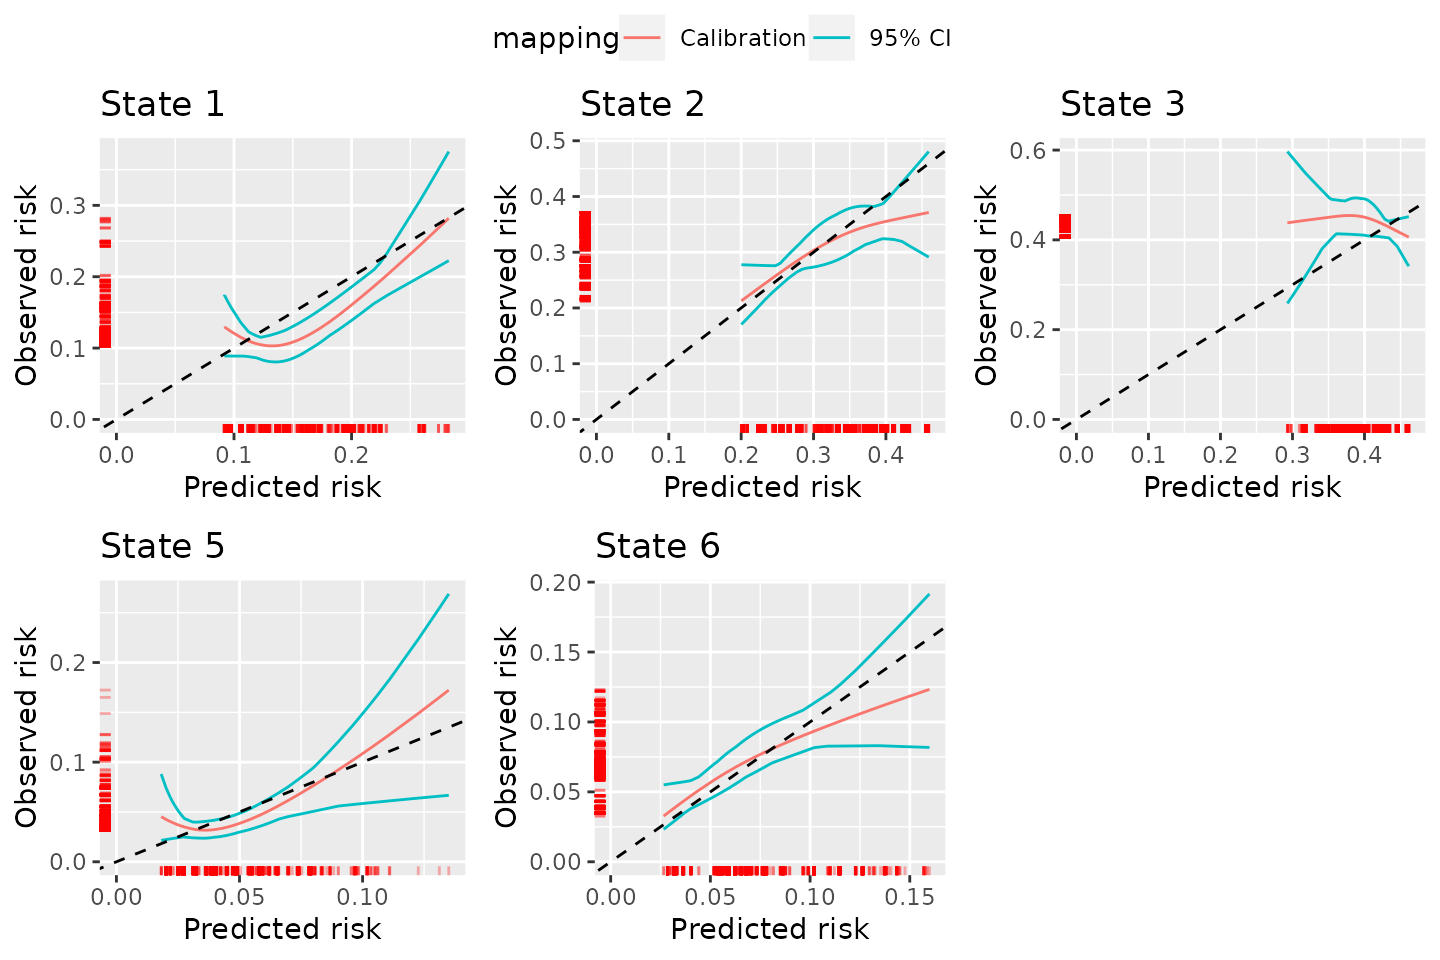
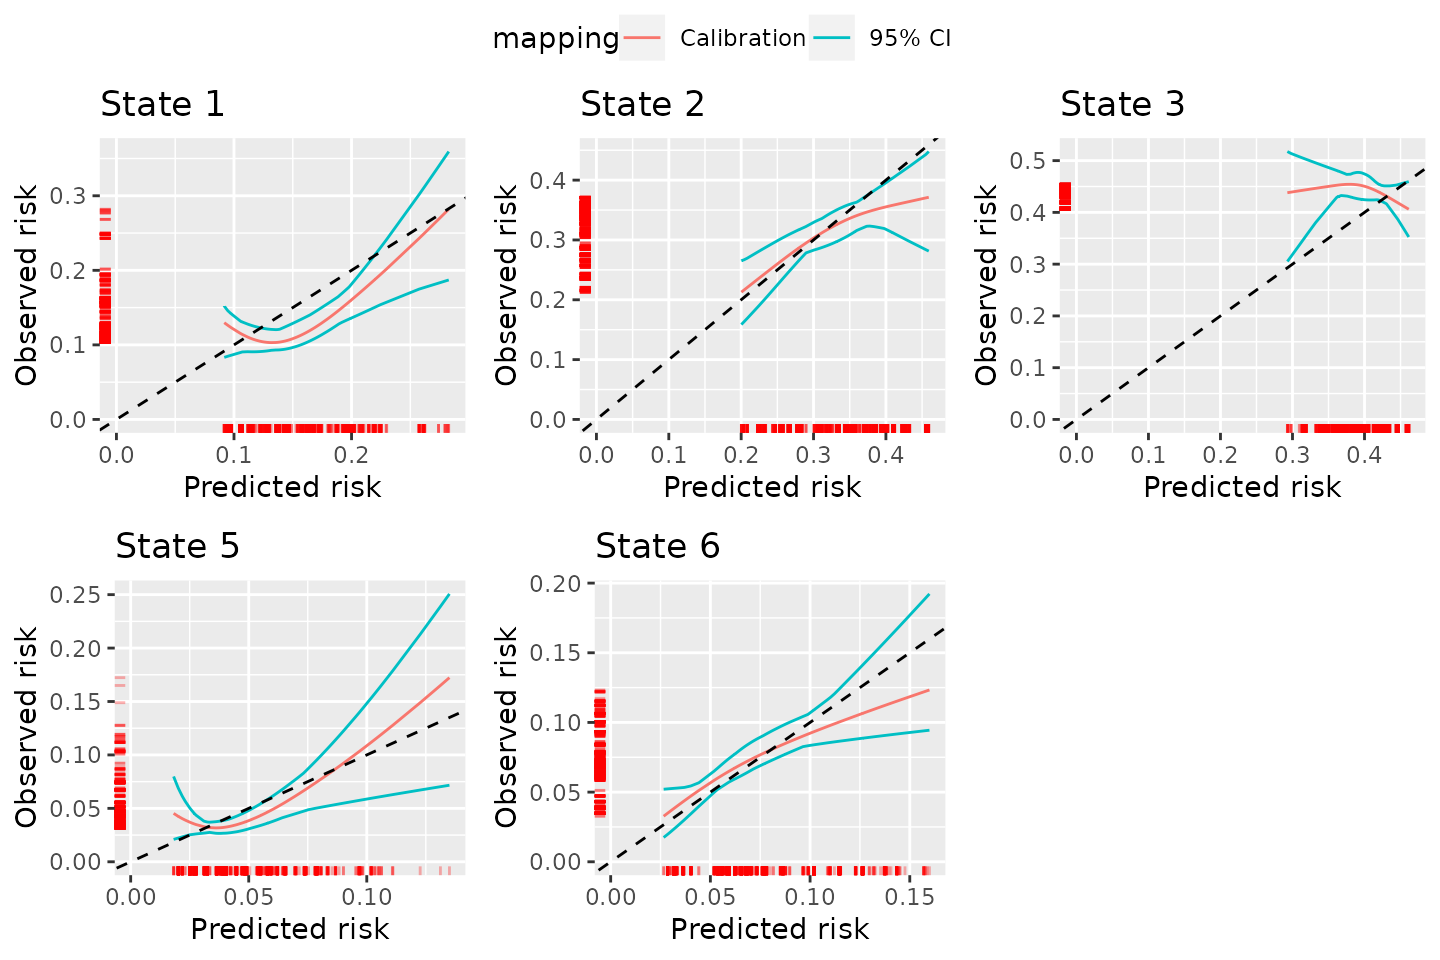
Deploying to gh-pages from @ alexpate30/calibmsm@2191148faf60e0f3015eb7d6d125822961022656 🚀

diff --git a/reference/calc_calib_blr.html b/reference/calc_calib_blr.html
@@ -247,38 +247,38 @@ in the vignette XXXX.</p>
 <span class="r-out co"><span class="r-pr">#&gt;</span>   .. ..$ id       : int [1:1778] 2 4 5 7 10 13 14 16 18 19 ...</span>
 <span class="r-out co"><span class="r-pr">#&gt;</span>   .. ..$ pred     : num [1:1778] 0.114 0.1384 0.1233 0.0974 0.1137 ...</span>
 <span class="r-out co"><span class="r-pr">#&gt;</span>   .. ..$ obs      : num [1:1778] 0.11 0.104 0.105 0.124 0.11 ...</span>
-<span class="r-out co"><span class="r-pr">#&gt;</span>   .. ..$ obs.lower: num [1:1778] 0.0897 0.0807 0.0865 0.0883 0.0897 ...</span>
-<span class="r-out co"><span class="r-pr">#&gt;</span>   .. ..$ obs.upper: num [1:1778] 0.129 0.129 0.124 0.162 0.129 ...</span>
+<span class="r-out co"><span class="r-pr">#&gt;</span>   .. ..$ obs.lower: num [1:1778] 0.0897 0.0826 0.085 0.0879 0.0895 ...</span>
+<span class="r-out co"><span class="r-pr">#&gt;</span>   .. ..$ obs.upper: num [1:1778] 0.135 0.125 0.127 0.166 0.135 ...</span>
 <span class="r-out co"><span class="r-pr">#&gt;</span>   ..$ state2:'data.frame':	1778 obs. of  5 variables:</span>
 <span class="r-out co"><span class="r-pr">#&gt;</span>   .. ..$ id       : int [1:1778] 2 4 5 7 10 13 14 16 18 19 ...</span>
 <span class="r-out co"><span class="r-pr">#&gt;</span>   .. ..$ pred     : num [1:1778] 0.232 0.184 0.161 0.212 0.232 ...</span>
 <span class="r-out co"><span class="r-pr">#&gt;</span>   .. ..$ obs      : num [1:1778] 0.17 0.186 0.176 0.179 0.17 ...</span>
-<span class="r-out co"><span class="r-pr">#&gt;</span>   .. ..$ obs.lower: num [1:1778] 0.126 0.153 0.139 0.151 0.126 ...</span>
-<span class="r-out co"><span class="r-pr">#&gt;</span>   .. ..$ obs.upper: num [1:1778] 0.227 0.226 0.22 0.212 0.227 ...</span>
+<span class="r-out co"><span class="r-pr">#&gt;</span>   .. ..$ obs.lower: num [1:1778] 0.125 0.158 0.142 0.15 0.125 ...</span>
+<span class="r-out co"><span class="r-pr">#&gt;</span>   .. ..$ obs.upper: num [1:1778] 0.228 0.214 0.217 0.212 0.228 ...</span>
 <span class="r-out co"><span class="r-pr">#&gt;</span>   ..$ state3:'data.frame':	1778 obs. of  5 variables:</span>
 <span class="r-out co"><span class="r-pr">#&gt;</span>   .. ..$ id       : int [1:1778] 2 4 5 7 10 13 14 16 18 19 ...</span>
 <span class="r-out co"><span class="r-pr">#&gt;</span>   .. ..$ pred     : num [1:1778] 0.0844 0.0758 0.0551 0.0615 0.0844 ...</span>
 <span class="r-out co"><span class="r-pr">#&gt;</span>   .. ..$ obs      : num [1:1778] 0.1249 0.1167 0.0919 0.1001 0.1248 ...</span>
-<span class="r-out co"><span class="r-pr">#&gt;</span>   .. ..$ obs.lower: num [1:1778] 0.0984 0.0871 0.0486 0.0612 0.0984 ...</span>
-<span class="r-out co"><span class="r-pr">#&gt;</span>   .. ..$ obs.upper: num [1:1778] 0.159 0.148 0.143 0.14 0.159 ...</span>
+<span class="r-out co"><span class="r-pr">#&gt;</span>   .. ..$ obs.lower: num [1:1778] 0.0991 0.0866 0.0376 0.0522 0.0991 ...</span>
+<span class="r-out co"><span class="r-pr">#&gt;</span>   .. ..$ obs.upper: num [1:1778] 0.154 0.142 0.144 0.143 0.154 ...</span>
 <span class="r-out co"><span class="r-pr">#&gt;</span>   ..$ state4:'data.frame':	1778 obs. of  5 variables:</span>
 <span class="r-out co"><span class="r-pr">#&gt;</span>   .. ..$ id       : int [1:1778] 2 4 5 7 10 13 14 16 18 19 ...</span>
 <span class="r-out co"><span class="r-pr">#&gt;</span>   .. ..$ pred     : num [1:1778] 0.233 0.218 0.183 0.221 0.233 ...</span>
 <span class="r-out co"><span class="r-pr">#&gt;</span>   .. ..$ obs      : num [1:1778] 0.243 0.224 0.185 0.228 0.243 ...</span>
-<span class="r-out co"><span class="r-pr">#&gt;</span>   .. ..$ obs.lower: num [1:1778] 0.206 0.191 0.151 0.194 0.206 ...</span>
-<span class="r-out co"><span class="r-pr">#&gt;</span>   .. ..$ obs.upper: num [1:1778] 0.286 0.258 0.215 0.263 0.286 ...</span>
+<span class="r-out co"><span class="r-pr">#&gt;</span>   .. ..$ obs.lower: num [1:1778] 0.203 0.197 0.154 0.198 0.203 ...</span>
+<span class="r-out co"><span class="r-pr">#&gt;</span>   .. ..$ obs.upper: num [1:1778] 0.286 0.255 0.221 0.26 0.286 ...</span>
 <span class="r-out co"><span class="r-pr">#&gt;</span>   ..$ state5:'data.frame':	1778 obs. of  5 variables:</span>
 <span class="r-out co"><span class="r-pr">#&gt;</span>   .. ..$ id       : int [1:1778] 2 4 5 7 10 13 14 16 18 19 ...</span>
 <span class="r-out co"><span class="r-pr">#&gt;</span>   .. ..$ pred     : num [1:1778] 0.148 0.154 0.143 0.144 0.149 ...</span>
 <span class="r-out co"><span class="r-pr">#&gt;</span>   .. ..$ obs      : num [1:1778] 0.191 0.165 0.222 0.212 0.188 ...</span>
-<span class="r-out co"><span class="r-pr">#&gt;</span>   .. ..$ obs.lower: num [1:1778] 0.168 0.148 0.183 0.179 0.166 ...</span>
-<span class="r-out co"><span class="r-pr">#&gt;</span>   .. ..$ obs.upper: num [1:1778] 0.215 0.183 0.261 0.245 0.211 ...</span>
+<span class="r-out co"><span class="r-pr">#&gt;</span>   .. ..$ obs.lower: num [1:1778] 0.165 0.15 0.183 0.179 0.163 ...</span>
+<span class="r-out co"><span class="r-pr">#&gt;</span>   .. ..$ obs.upper: num [1:1778] 0.215 0.184 0.265 0.25 0.21 ...</span>
 <span class="r-out co"><span class="r-pr">#&gt;</span>   ..$ state6:'data.frame':	1778 obs. of  5 variables:</span>
 <span class="r-out co"><span class="r-pr">#&gt;</span>   .. ..$ id       : int [1:1778] 2 4 5 7 10 13 14 16 18 19 ...</span>
 <span class="r-out co"><span class="r-pr">#&gt;</span>   .. ..$ pred     : num [1:1778] 0.189 0.23 0.335 0.264 0.189 ...</span>
 <span class="r-out co"><span class="r-pr">#&gt;</span>   .. ..$ obs      : num [1:1778] 0.207 0.254 0.316 0.28 0.207 ...</span>
-<span class="r-out co"><span class="r-pr">#&gt;</span>   .. ..$ obs.lower: num [1:1778] 0.187 0.23 0.275 0.254 0.186 ...</span>
-<span class="r-out co"><span class="r-pr">#&gt;</span>   .. ..$ obs.upper: num [1:1778] 0.23 0.283 0.365 0.308 0.23 ...</span>
+<span class="r-out co"><span class="r-pr">#&gt;</span>   .. ..$ obs.lower: num [1:1778] 0.182 0.227 0.277 0.253 0.182 ...</span>
+<span class="r-out co"><span class="r-pr">#&gt;</span>   .. ..$ obs.upper: num [1:1778] 0.229 0.281 0.351 0.307 0.229 ...</span>
 <span class="r-out co"><span class="r-pr">#&gt;</span>  $ metadata:List of 8</span>
 <span class="r-out co"><span class="r-pr">#&gt;</span>   ..$ valid.transitions   : num [1:6] 1 2 3 4 5 6</span>
 <span class="r-out co"><span class="r-pr">#&gt;</span>   ..$ assessed.transitions: num [1:6] 1 2 3 4 5 6</span>

diff --git a/articles/Comparison-with-graphical-calibration-curves-in-competing-risks-setting.html b/articles/Comparison-with-graphical-calibration-curves-in-competing-risks-setting.html
@@ -220,11 +220,11 @@ the pseudo-value approach, implemented through
 <span>                 n.pctls <span class="op">=</span> <span class="fl">9</span>,</span>
 <span>                 CI <span class="op">=</span> <span class="fl">95</span>,</span>
 <span>                 CI.type <span class="op">=</span> <span class="st">"parametric"</span><span class="op">)</span></span>
-<span><span class="co">#&gt; [1] "Calculate pseudo values for state =  1 2023-06-12 11:32:51.011349"</span></span>
-<span><span class="co">#&gt; [1] "Calculate pseudo values for state =  2 2023-06-12 11:37:05.818511"</span></span>
-<span><span class="co">#&gt; [1] "Calculate pseudo values for state =  3 2023-06-12 11:41:19.796731"</span></span>
-<span><span class="co">#&gt; [1] "Calculate pseudo values for state =  5 2023-06-12 11:45:36.900833"</span></span>
-<span><span class="co">#&gt; [1] "Calculate pseudo values for state =  6 2023-06-12 11:49:50.687756"</span></span>
+<span><span class="co">#&gt; [1] "Calculate pseudo values for state =  1 2023-06-12 14:39:11.57608"</span></span>
+<span><span class="co">#&gt; [1] "Calculate pseudo values for state =  2 2023-06-12 14:45:16.102343"</span></span>
+<span><span class="co">#&gt; [1] "Calculate pseudo values for state =  3 2023-06-12 14:51:20.195112"</span></span>
+<span><span class="co">#&gt; [1] "Calculate pseudo values for state =  5 2023-06-12 14:57:24.166473"</span></span>
+<span><span class="co">#&gt; [1] "Calculate pseudo values for state =  6 2023-06-12 15:03:11.352641"</span></span>
 <span></span>
 <span><span class="co">### Turn into plot and print</span></span>
 <span><span class="va">plot.calibmsm.pv</span> <span class="op">&lt;-</span> <span class="fu"><a href="https://rdrr.io/r/graphics/plot.default.html" class="external-link">plot</a></span><span class="op">(</span><span class="va">dat.calib.pv</span>, combine <span class="op">=</span> <span class="cn">TRUE</span>, nrow <span class="op">=</span> <span class="fl">2</span>, ncol <span class="op">=</span> <span class="fl">3</span><span class="op">)</span></span></code></pre></div>
